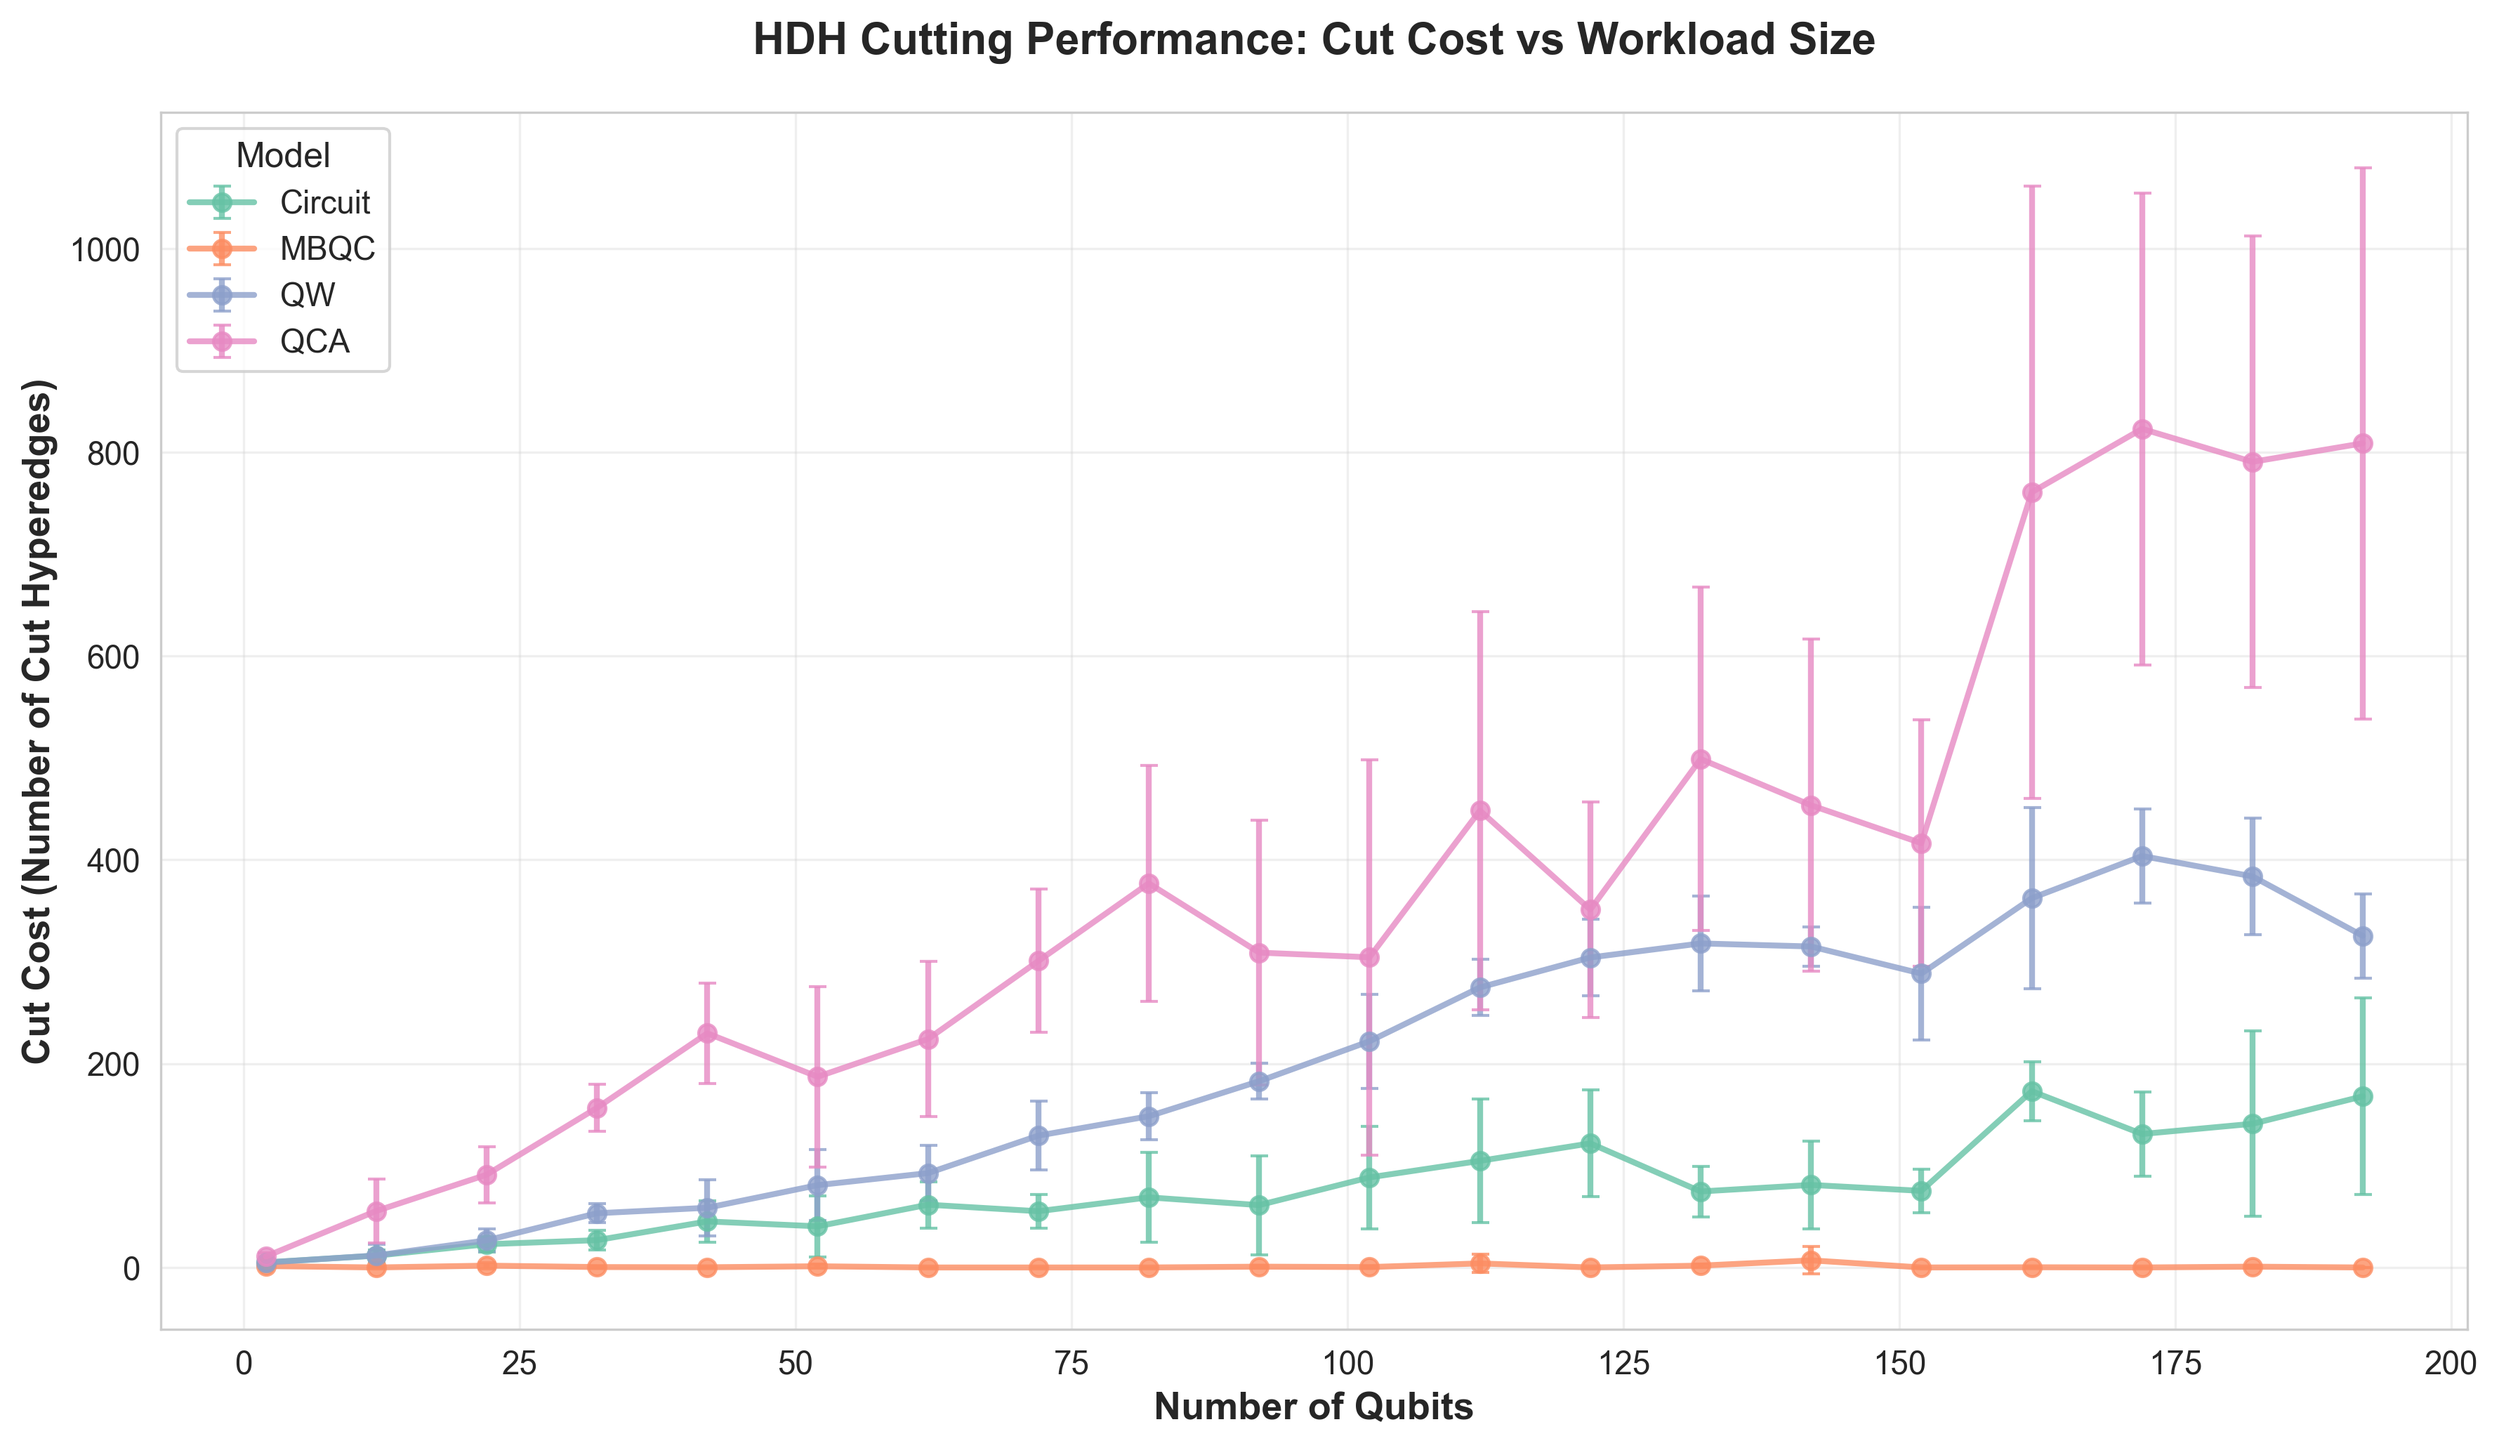
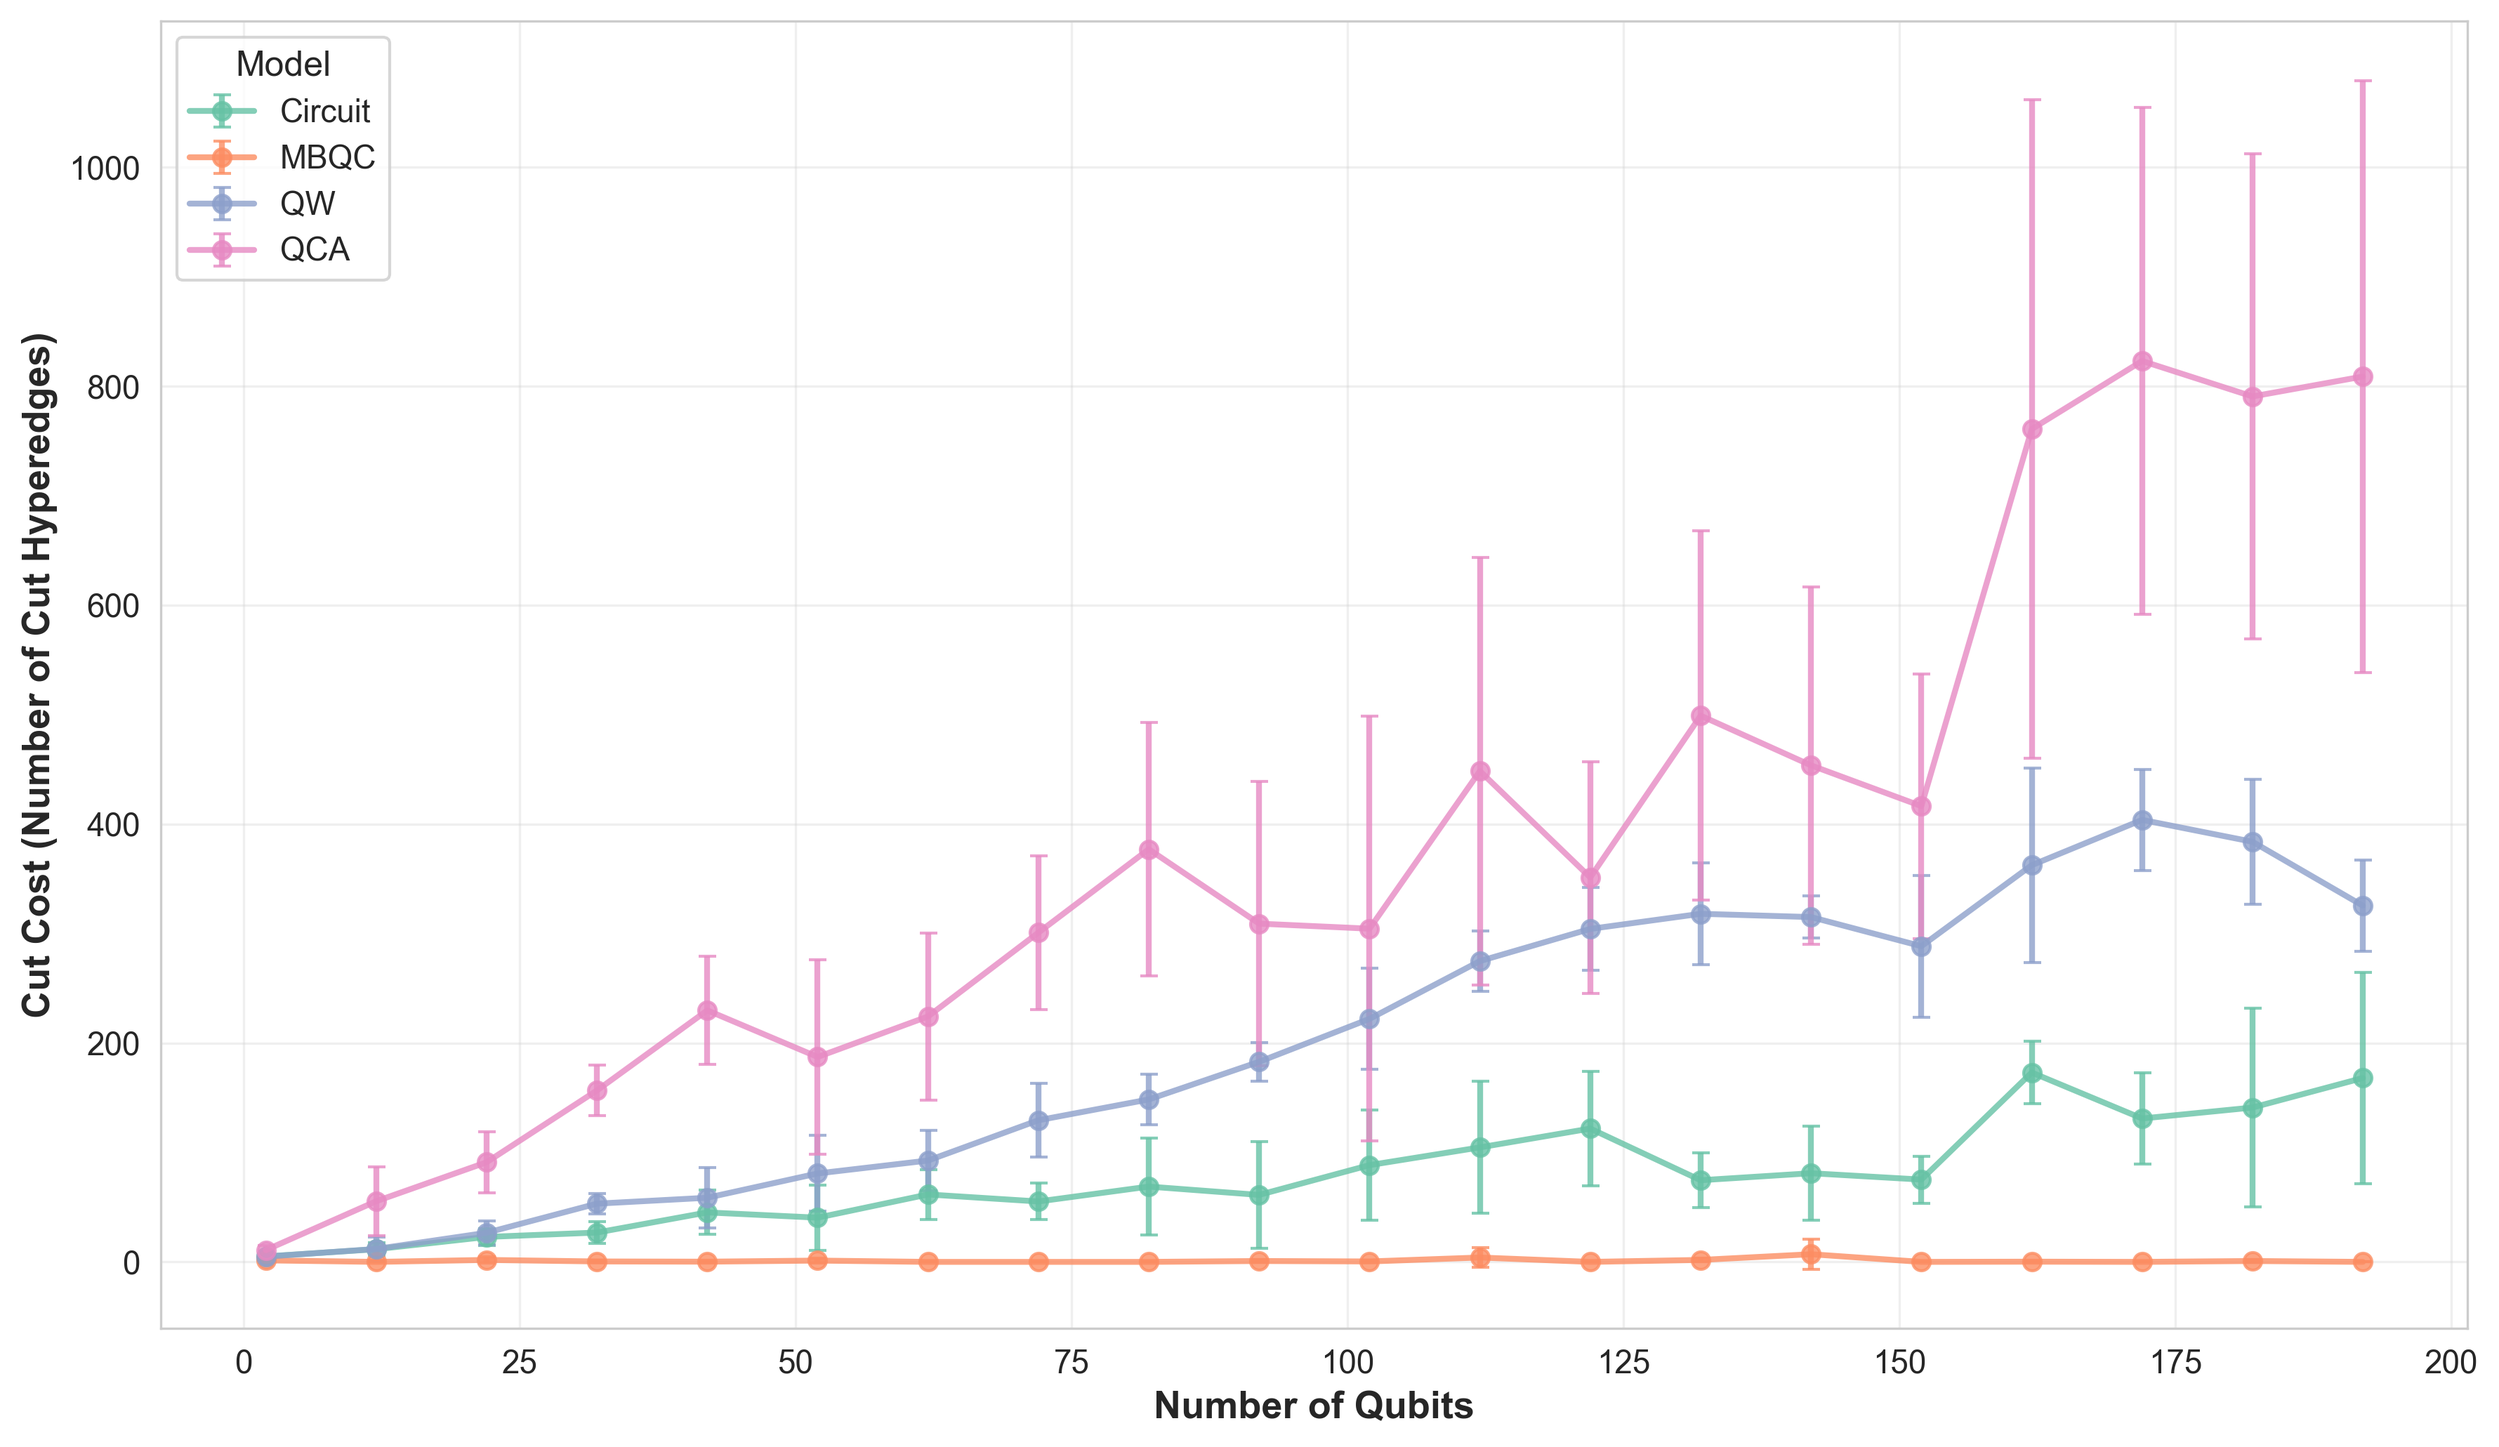
model results

diff --git a/hdh/model_test_plot.py b/hdh/model_test_plot.py
@@ -91,8 +91,8 @@ def plot_cut_cost(df):
     
     ax.set_xlabel('Number of Qubits', fontsize=13, fontweight='bold')
     ax.set_ylabel('Cut Cost (Number of Cut Hyperedges)', fontsize=13, fontweight='bold')
-    ax.set_title('HDH Cutting Performance: Cut Cost vs Workload Size', 
-                 fontsize=15, fontweight='bold', pad=20)
+    # ax.set_title('HDH Cutting Performance: Cut Cost vs Workload Size', 
+    #              fontsize=15, fontweight='bold', pad=20)
     ax.legend(title='Model', fontsize=11, title_fontsize=12)
     ax.grid(True, alpha=0.3)
     
@@ -141,8 +141,8 @@ def plot_heuristic_time(df):
     
     ax.set_xlabel('Number of Qubits', fontsize=13, fontweight='bold')
     ax.set_ylabel('Heuristic Time (seconds)', fontsize=13, fontweight='bold')
-    ax.set_title('HDH Cutting Performance: Computation Time vs Workload Size', 
-                 fontsize=15, fontweight='bold', pad=20)
+    # ax.set_title('HDH Cutting Performance: Computation Time vs Workload Size', 
+    #              fontsize=15, fontweight='bold', pad=20)
     ax.legend(title='Model', fontsize=11, title_fontsize=12)
     ax.grid(True, alpha=0.3)
     
